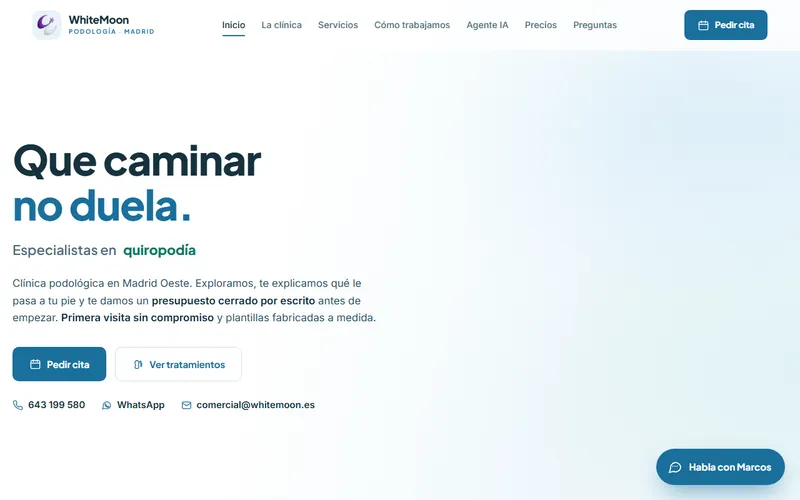
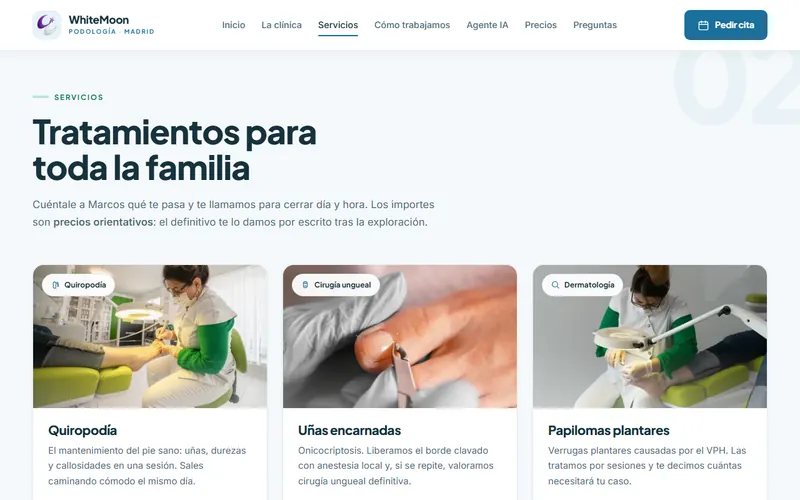
feat(home): la seccion de zonas recoge los 35 enlaces huerfanos y dos demos se recapturan (#695)
1 · #zonas
35 paginas de zona (todas las agencia-ia-*) enlazan a
https://whitemoon.es/#zonas. Ese id no existia en ningun sitio del repo, asi
que los 35 enlaces caian en el top de la home. Ahora la seccion existe, entre
la FAQ y el CTA final.

- Las diez localidades pedidas, como pastillas enlazadas a su landing de zona.
  Villanueva del Pardillo va como texto: es la unica de la lista sin pagina
  propia y no se inventa un enlace roto.
- scroll-margin-top de 86px: la navbar es fija y sin eso el titular llega
  pegado a ella.
- Cierre honesto: enlazan a #zonas 35 paginas y aqui solo se listan diez, asi
  que un pie manda a /agencia-ia-madrid/ para quien venga de Getafe o Alcala.
- El schema LocalBusiness de la home ya tenia areaServed; se le anaden las
  cuatro ciudades que faltaban (Torrelodones, Villanueva del Pardillo,
  Galapagar y Collado Villalba). No se crea un bloque nuevo ni se reindenta el
  que habia: insercion textual, para que el diff sea legible.

2 · Recapturas de dentales y podologia
Sus heros no llevan foto —es su diseno, no un fallo de carga—, asi que las
tarjetas del grid salian medio vacias. Las nuevas capturas son de la seccion
#servicios de cada demo, que si tiene contenido visual: 6 y 10 imagenes
cargadas antes de disparar. Mismos nombres, mismos specs (800x500, WebP q80),
asi que el markup no cambia. 19,1 -> 35,4 KB en dentales y 18,5 -> 34,1 KB en
podologia; el techo eran 150 KB.
[…]

diff --git a/index.html b/index.html
@@ -157,6 +157,26 @@
         "sameAs": "https://www.wikidata.org/wiki/Q1631897"
       },
       {
+        "@type": "City",
+        "name": "Torrelodones",
+        "sameAs": "https://www.wikidata.org/wiki/Q1637912"
+      },
+      {
+        "@type": "City",
+        "name": "Villanueva del Pardillo",
+        "sameAs": "https://www.wikidata.org/wiki/Q1636067"
+      },
+      {
+        "@type": "City",
+        "name": "Galapagar",
+        "sameAs": "https://www.wikidata.org/wiki/Q1637829"
+      },
+      {
+        "@type": "City",
+        "name": "Collado Villalba",
+        "sameAs": "https://www.wikidata.org/wiki/Q1637696"
+      },
+      {
         "@type": "Country",
         "name": "España",
         "sameAs": "https://www.wikidata.org/wiki/Q29"
@@ -992,6 +1012,48 @@
           <summary>¿Cuánto cuesta implantar un agente IA en mi negocio?</summary>
           <div>Desde 499€ de setup + 99€/mes con el pack Spark, sin permanencia. El precio final depende del pack que mejor encaje con tu negocio; te lo recomendamos en una auditoría gratuita sin compromiso.</div>
         </details>
+  </div>
+</section>
+
+<!-- 7b · ZONAS — 35 paginas de zona enlazan a https://whitemoon.es/#zonas y
+     hasta ahora caian en el top de la home. El id vive aqui. -->
+<style>
+  /* La navbar es fija (66px): sin scroll-margin el titular queda pegado a
+     ella al llegar por el ancla. */
+  #zonas{padding:64px 0;border-top:1px solid rgba(124,77,255,.12);scroll-margin-top:86px}
+  #zonas .zn-grid{display:flex;flex-wrap:wrap;gap:10px;justify-content:center;max-width:860px;margin:0 auto}
+  #zonas .zn{display:inline-flex;align-items:center;gap:8px;padding:10px 16px;border-radius:99px;background:var(--card,#111118);border:1px solid rgba(124,77,255,.22);color:#DCDCEA;text-decoration:none;font-size:.88rem;line-height:1.3;transition:border-color .15s ease,background .15s ease,color .15s ease}
+  #zonas a.zn:hover{border-color:rgba(124,77,255,.55);background:rgba(124,77,255,.07);color:#fff}
+  #zonas a.zn:focus-visible{outline:2px solid var(--p2,#9d70ff);outline-offset:2px}
+  /* Villanueva del Pardillo no tiene pagina propia: va como texto, no como
+     enlace roto. */
+  #zonas .zn--plain{color:var(--muted,#9999b5);cursor:default}
+  #zonas .zn svg{width:15px;height:15px;flex-shrink:0;color:var(--p2,#9d70ff)}
+  #zonas .zn-foot{text-align:center;font-size:.88rem;color:var(--muted,#9999b5);margin:26px auto 0;max-width:640px}
+  #zonas .zn-foot a{color:var(--p2,#9d70ff);text-decoration:underline;text-underline-offset:3px}
+  @media(max-width:360px){#zonas .zn{padding:9px 13px;font-size:.83rem}}
+  @media(prefers-reduced-motion:reduce){#zonas .zn{transition:none}}
+</style>
+<section id="zonas" class="sec-alt">
+  <div class="wrap">
+    <div class="hdr c" style="margin-bottom:30px">
+      <span class="sec-lbl">Zonas</span>
+      <h2 class="sec-h" style="font-size:clamp(1.5rem,3vw,2rem)">Zonas donde trabajamos</h2>
+      <p class="sec-sub" style="margin-left:auto;margin-right:auto;margin-bottom:0">Somos de Majadahonda y trabajamos en el noroeste de Madrid. El trabajo es en remoto y presencial cuando hace falta.</p>
+    </div>
+    <div class="zn-grid">
+        <a class="zn" href="/agencia-ia-majadahonda/"><svg viewBox="0 0 24 24" fill="none" stroke="currentColor" stroke-width="1.9" stroke-linecap="round" stroke-linejoin="round" aria-hidden="true"><path d="M20 10c0 6-8 12-8 12s-8-6-8-12a8 8 0 0 1 16 0z"/><circle cx="12" cy="10" r="3"/></svg>Majadahonda</a>
+        <a class="zn" href="/agencia-ia-las-rozas/"><svg viewBox="0 0 24 24" fill="none" stroke="currentColor" stroke-width="1.9" stroke-linecap="round" stroke-linejoin="round" aria-hidden="true"><path d="M20 10c0 6-8 12-8 12s-8-6-8-12a8 8 0 0 1 16 0z"/><circle cx="12" cy="10" r="3"/></svg>Las Rozas</a>
+        <a class="zn" href="/agencia-ia-pozuelo/"><svg viewBox="0 0 24 24" fill="none" stroke="currentColor" stroke-width="1.9" stroke-linecap="round" stroke-linejoin="round" aria-hidden="true"><path d="M20 10c0 6-8 12-8 12s-8-6-8-12a8 8 0 0 1 16 0z"/><circle cx="12" cy="10" r="3"/></svg>Pozuelo de Alarcón</a>
+        <a class="zn" href="/agencia-ia-boadilla/"><svg viewBox="0 0 24 24" fill="none" stroke="currentColor" stroke-width="1.9" stroke-linecap="round" stroke-linejoin="round" aria-hidden="true"><path d="M20 10c0 6-8 12-8 12s-8-6-8-12a8 8 0 0 1 16 0z"/><circle cx="12" cy="10" r="3"/></svg>Boadilla del Monte</a>
+        <a class="zn" href="/agencia-ia-torrelodones/"><svg viewBox="0 0 24 24" fill="none" stroke="currentColor" stroke-width="1.9" stroke-linecap="round" stroke-linejoin="round" aria-hidden="true"><path d="M20 10c0 6-8 12-8 12s-8-6-8-12a8 8 0 0 1 16 0z"/><circle cx="12" cy="10" r="3"/></svg>Torrelodones</a>
+        <a class="zn" href="/agencia-ia-villanueva-canada/"><svg viewBox="0 0 24 24" fill="none" stroke="currentColor" stroke-width="1.9" stroke-linecap="round" stroke-linejoin="round" aria-hidden="true"><path d="M20 10c0 6-8 12-8 12s-8-6-8-12a8 8 0 0 1 16 0z"/><circle cx="12" cy="10" r="3"/></svg>Villanueva de la Cañada</a>
+        <span class="zn zn--plain"><svg viewBox="0 0 24 24" fill="none" stroke="currentColor" stroke-width="1.9" stroke-linecap="round" stroke-linejoin="round" aria-hidden="true"><path d="M20 10c0 6-8 12-8 12s-8-6-8-12a8 8 0 0 1 16 0z"/><circle cx="12" cy="10" r="3"/></svg>Villanueva del Pardillo</span>
+        <a class="zn" href="/agencia-ia-galapagar/"><svg viewBox="0 0 24 24" fill="none" stroke="currentColor" stroke-width="1.9" stroke-linecap="round" stroke-linejoin="round" aria-hidden="true"><path d="M20 10c0 6-8 12-8 12s-8-6-8-12a8 8 0 0 1 16 0z"/><circle cx="12" cy="10" r="3"/></svg>Galapagar</a>
+        <a class="zn" href="/agencia-ia-collado-villalba/"><svg viewBox="0 0 24 24" fill="none" stroke="currentColor" stroke-width="1.9" stroke-linecap="round" stroke-linejoin="round" aria-hidden="true"><path d="M20 10c0 6-8 12-8 12s-8-6-8-12a8 8 0 0 1 16 0z"/><circle cx="12" cy="10" r="3"/></svg>Collado Villalba</a>
+        <a class="zn" href="/agencia-ia-madrid/"><svg viewBox="0 0 24 24" fill="none" stroke="currentColor" stroke-width="1.9" stroke-linecap="round" stroke-linejoin="round" aria-hidden="true"><path d="M20 10c0 6-8 12-8 12s-8-6-8-12a8 8 0 0 1 16 0z"/><circle cx="12" cy="10" r="3"/></svg>Madrid</a>
+    </div>
+    <p class="zn-foot">¿Tu municipio no está en la lista? Trabajamos en toda la Comunidad de Madrid: mira <a href="/agencia-ia-madrid/">la cobertura completa</a> o escríbenos y te lo confirmamos.</p>
   </div>
 </section>
 
